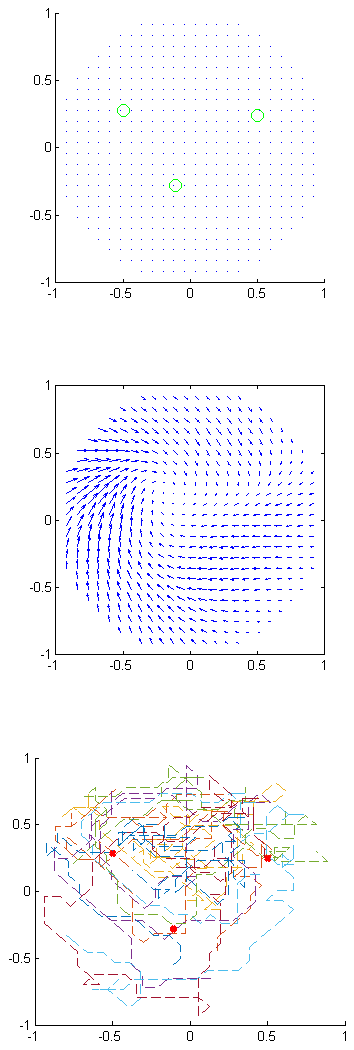
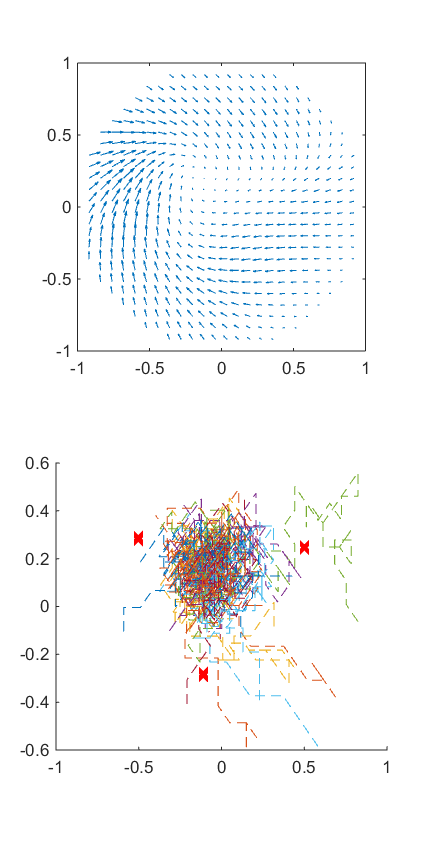
figures updated

diff --git a/FinalProjectWriteUp/finalWriteup.tex b/FinalProjectWriteUp/finalWriteup.tex
@@ -98,7 +98,7 @@ In order to see if there would be an effect if we modeled the fact that cities h
 \subsection{Reward Center Locations}
 For the reward center locations, I used basic locations to start off and then used locations inspired by the cities in the United States and Europe. \\
 \\
-In order to have well placed cities, for my United States map, I used New York, Chicago, Los Angeles, Atlanta, and Denver. For the Europe map, I used Paris, London, Warsaw, Berlin, and Vienna. I found their latitude and longitude coordinates in signed degrees format and plotted them on a 2D plane, rescaling for the water maze. I made sure to vary which particular set of cities I chose in a given trial. 
+In order to have well placed cities, for my United States map, I used New York, Chicago, Los Angeles, Atlanta, and Denver. For the Europe map, I used Warsaw, Berlin, and Vienna. I found their latitude and longitude coordinates in signed degrees format and plotted them on a 2D plane, rescaling for the water maze. I made sure to vary which particular set of cities I chose in a given trial. 
 
 \subsection{Rat Testing}
 
@@ -119,55 +119,56 @@ After using depreciating rewards, the rat starting moving around the maze in a m
 
 \subsection{European cities, constant initial rewards}
 
-It can be reasonably assumed that the highest capacity highway would need to be placed where the rat's activity is the greatest. Indeed, the region with a high amount of activity is around the center of the city points. \\
-\\
-For figure **INSERT REF**, I used the cities of Berlin, Vienna, and Warsaw as my model for the reward center locations. During the testing phase, the rat moves toward one of the cities and also travels around the area between the cities. The interesting thing is that if you take the areas in the figure where the path lines are densest, then it could almost make a path that would make sense as travel routes between the cities. 
-**MENTION DEPRECIATION METHOD USED FOR THIS ONE**
+For the first figure, figure 1, the reward center locations reflect the European cities mentioned in the Reward Center Locations subsection of my experimental design. For this run, I depreciated the rewards by a constant factor in each time step. The reward values were all uniform in the beginning. After training, the actor gradients tend to favor the rightmost reward center but still point to the other reward center. When the testing was performed the rat moved toward each of the cities but mostly stayed in the path between the cities. An interesting result was that the area between the cities had the more dense concentration of path lines, however one reward center had a much more dense concentration than the others. For the critic weights, as can be observed in figure 1, they were higher near the reward centers as expected, but areas nearest the rightmost reward had much higher critic values.
 
 \begin{figure}
 \includegraphics[width=0.4\textwidth]{waterMazeRevised2_Figure.png} 
-\caption{Place Cell and Reward Center Locations (top). Actor Gradient (middle). Paths traversed by rat with reward centers in red (bottom)}
+\caption{Place Cells as blue dots and Reward Center Locations as green circles (top). Actor Gradient for each place in maze (middle). Paths traversed by rat with reward centers in red (bottom)}
 \end{figure}
 
 \begin{figure}
 \includegraphics[width=0.4\textwidth]{waterMazeRevised2_Critic.png} 
-\caption{Critic Values in Maze}
+\caption{Critic Weights for Maze from Figure 1}
 \end{figure}
 
-For figure **INSERT REF**, I used the cities of New York, Chicago, Los Angeles, Seattle, and Atlanta. After training, the rat had relatively good actor gradient directions. When charting all the paths the rat took, there is a high density in the middle area between all the cities which would coincide with where we would want a road to be to go between all the cities. 
+\subsection{American cities, constant initial rewards}
+
+For Figure 3, the reward center locations reflect the American cities mentioned in the experimental design. The initial rewards are constant but they decrement by a constant amount instead of constant factor each time the rat receives it. The results ended up quite similar to the case of European cities. There ended up being a distinct area between the reward centers heavily favored by the actor gradient so during testing that area is densest in terms of path lines. Instead of heavily favoring one reward center over another, the rat seemed confused in this area. In Figure 4, the critic values are highest on the right or left side and low in the middle which probably helps explain the fact that the rat had a hard time choosing there.
 
 \begin{figure}
 \includegraphics[width=0.4\textwidth]{waterMazeRevisedD_Figure.png} 
-\caption{Place Cell and Reward Center Locations (top). Actor Gradient (middle). Paths traversed by rat with reward centers in red (bottom)}
+\caption{Place Cells as blue dots and Reward Center Locations as green circles (top). Actor Gradient for each place in maze (middle). Paths traversed by rat with reward centers in red (bottom)}
 \end{figure}
 
 \begin{figure}
 \includegraphics[width=0.4\textwidth]{waterMazeRevisedD_Critic.png} 
-\caption{Critic Values in Maze}
+\caption{Critic Weights for Maze from Figure 3}
 \end{figure}
+
+\subsection{European cities, varying initial rewards}
 
 For figures **INSERT REF**, I used the European cities but changed their initial reward values based on their population. 
 
 \begin{figure}
 \includegraphics[width=0.4\textwidth]{waterMazeRevised2_Figure_populationRewards.png} 
-\caption{Place Cell and Reward Center Locations (top). Actor Gradient (middle). Paths traversed by rat with reward centers in red (bottom)}
+\caption{Actor Gradient for each place in maze (top). Paths traversed by rat with reward centers in red (bottom)}
 \end{figure}
 
 \begin{figure}
 \includegraphics[width=0.4\textwidth]{waterMazeRevised2_Critic_populationRewards.png} 
-\caption{Critic Values in Maze}
+\caption{Critic Weights for Maze from Figure 5}
 \end{figure}
 
 For figures **INSERT REF**, I used the American cities but changed their initial reward values based on their population. 
 
 \begin{figure}
 \includegraphics[width=0.4\textwidth]{waterMazeRevisedD_Figure_populationRewards.png} 
-\caption{Place Cell and Reward Center Locations (top). Actor Gradient (middle). Paths traversed by rat with reward centers in red (bottom)}
+\caption{Actor Gradient for each place in maze (top). Paths traversed by rat with reward centers in red (bottom)}
 \end{figure}
 
 \begin{figure}
 \includegraphics[width=0.4\textwidth]{waterMazeRevisedD_Critic_populationRewards.png} 
-\caption{Critic Values in Maze}
+\caption{Critic Weights for Maze from Figure 7}
 \end{figure}
 
 \section{Conclusion}

diff --git a/FinalProject/CURRENT_mod_morris_water_maze.m b/FinalProject/CURRENT_mod_morris_water_maze.m
@@ -194,7 +194,7 @@ drawnow;
 %runs trials without updating weights
 %records the paths that the rat takes
 
-TRIALS2 = 7;
+TRIALS2 = 15;
 locInd=1;
 placeCellHits = zeros(size(pc.x));
 ratLocsX = zeros(1,250);
@@ -220,8 +220,8 @@ for trial = 1:TRIALS2
         
         % choose an action and move rat to new location
         act = action_select (a, beta);
-        act = adjustAct(act,prevAct);
-        prevAct = act;
+        %act = adjustAct(act,prevAct);
+        %prevAct = act;
         rat = move2(act, rat);
         
         ratLocsX(locInd)=rat.x;
@@ -294,6 +294,31 @@ co = [0    0.4470    0.7410;
     0.3010    0.7450    0.9330;
     0.6350    0.0780    0.1840];
 subplot(313)
+hold on
+for i = 1:TRIALS2
+    colorRow = mod(i,size(co,1))+1;
+   plot(ratPathsX{i},ratPathsY{i},'--','Color',co(colorRow,:)); 
+end
+plot(rewards(:,1),rewards(:,2),'rx','LineWidth',3);
+hold off;
+
+%%
+
+%%
+figure
+
+subplot(211)
+vectorPlot(z,pc);
+axis square;
+
+co = [0    0.4470    0.7410;
+    0.8500    0.3250    0.0980;
+    0.9290    0.6940    0.1250;
+    0.4940    0.1840    0.5560;
+    0.4660    0.6740    0.1880;
+    0.3010    0.7450    0.9330;
+    0.6350    0.0780    0.1840];
+subplot(212)
 hold on
 for i = 1:TRIALS2
     colorRow = mod(i,size(co,1))+1;
